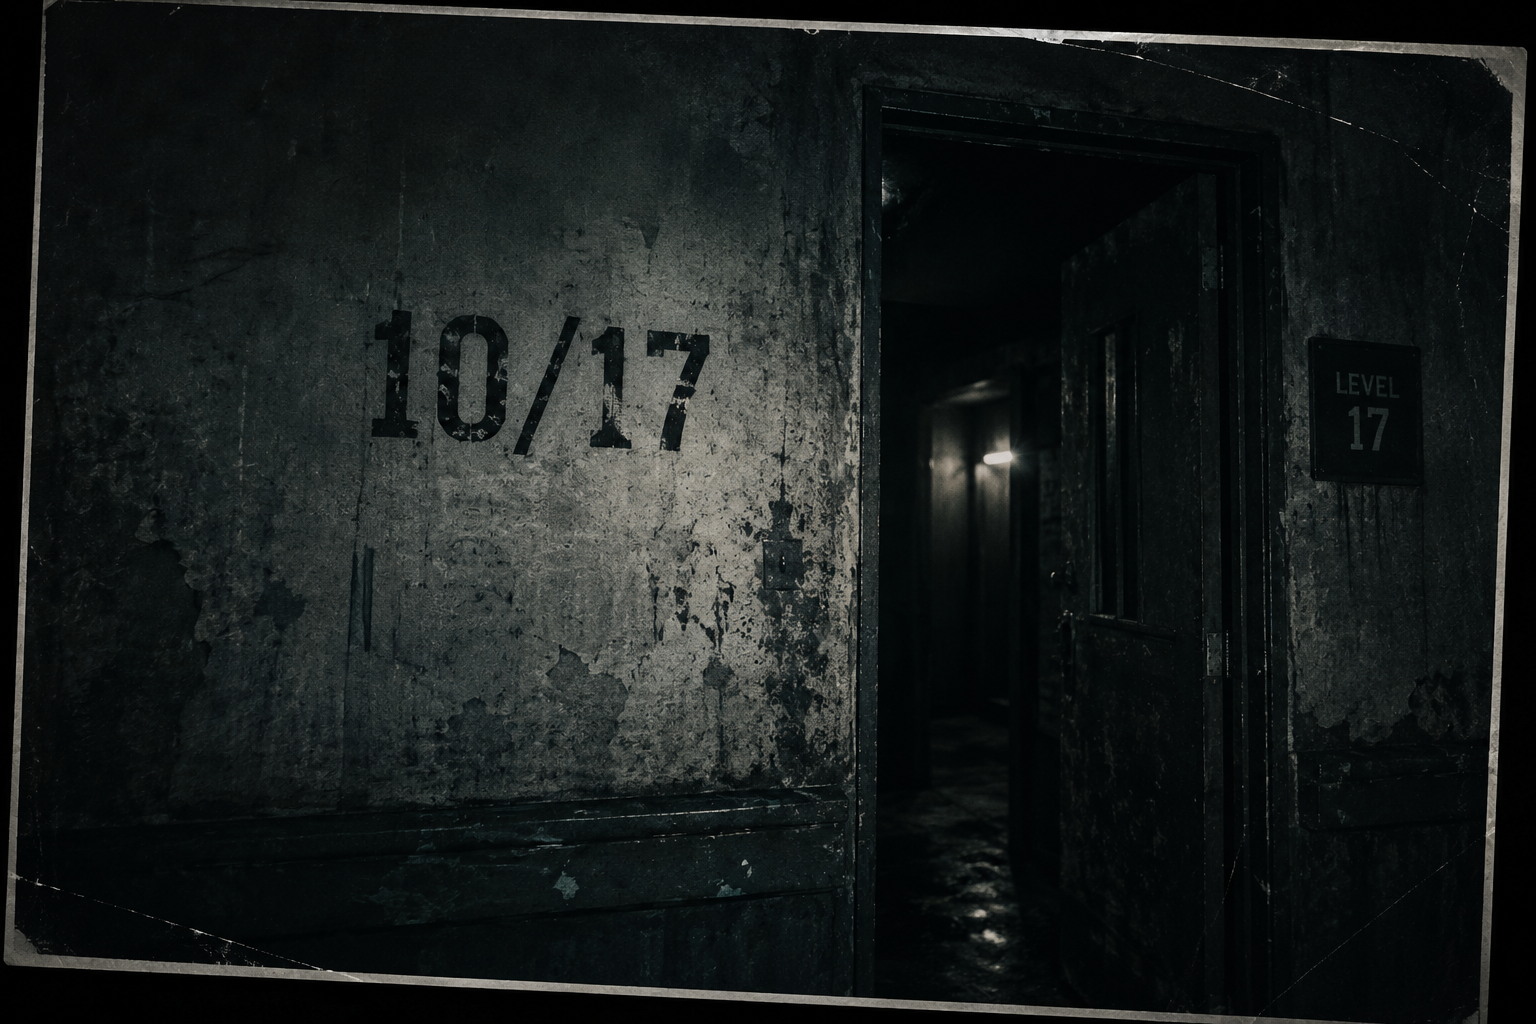
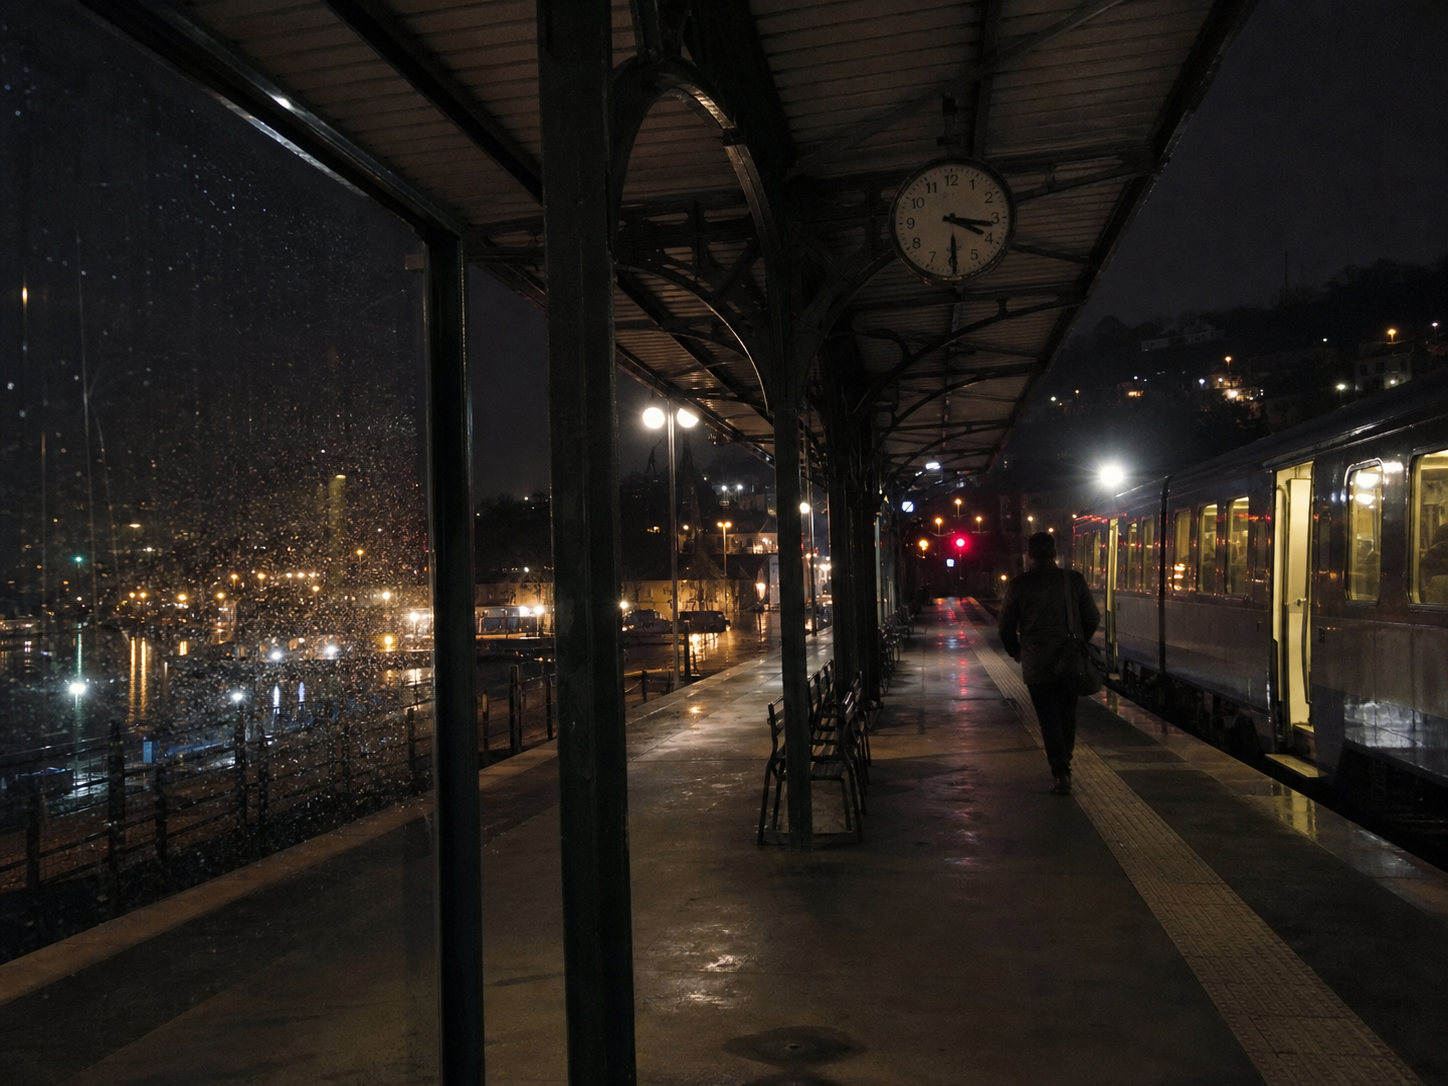
Add files via upload

diff --git a/index.html b/index.html
@@ -1,28 +1,1 @@
-<!doctype html>
-<html lang="zh-CN"><head><meta charset="utf-8"><meta name="viewport" content="width=device-width,initial-scale=1">
-<title>《第17层》</title><link rel="stylesheet" href="assets/style.css"></head>
-<body class="home">
-<header class="sitebar"><div class="wrap bar">
-<a class="logo" href="index.html" style="text-decoration:none">《第17层》</a>
-<nav class="nav"><a href="index.html">首页</a><a href="sites/evan/index.html">林逸网站</a><a href="sites/chronicle/index.html">灰港日报</a><a href="sites/harbor/index.html">Harbor Tower</a><a href="sites/police/index.html">警方档案</a><a href="search.html">公开索引</a></nav>
-</div></header>
-<main>
-<section class="hero"><div class="hero-content">
-<div class="eyebrow">灰港市 · 旧网络档案 · 2019</div><h1>《第17层》</h1>
-<div class="date"><strong class="clue">2019.10.17 · 灰港市</strong></div>
-<p><strong class="clue">17岁的林逸失踪</strong>。警方认为他可能自行离开。多年以后，他的旧个人网站重新出现在网络档案中。</p>
-<div class="actions"><a class="btn primary" href="sites/evan/index.html">进入林逸的网站 →</a><a class="btn" href="search.html">公开索引</a></div>
-</div>
-<aside class="case"><h3>案件摘要</h3>
-<div class="case-row"><span>姓名</span><b>林逸</b></div><div class="case-row"><span>失踪日期</span><b>2019-10-17</b></div><div class="case-row"><span>最后地点</span><b>Harbor Tower 附近</b></div><div class="case-row"><span>状态</span><b style="color:var(--red2)">未解</b></div></aside>
-</section>
-<section class="home-section"><div class="eyebrow">公开资料</div><h2>可以访问的网站</h2>
-<div class="grid">
-<a class="card" href="sites/evan/index.html"><span class="tag">个人网站</span><h3>林逸</h3><p>日志、摄影和旧消息。</p><span class="arrow">访问 →</span></a>
-<a class="card" href="sites/chronicle/index.html"><span class="tag">报纸档案</span><h3>灰港日报</h3><p>建筑翻修与失踪案的公开报道。</p><span class="arrow">进入 →</span></a>
-<a class="card" href="sites/harbor/index.html"><span class="tag">建筑官网</span><h3>Harbor Tower</h3><p>公开的建筑资料和楼层目录。</p><span class="arrow">查看 →</span></a>
-<a class="card" href="sites/voss/index.html"><span class="tag">记者档案</span><h3>Mara Voss</h3><p>一名记者留下的案件记录。</p><span class="arrow">查看 →</span></a>
-<a class="card" href="sites/police/index.html"><span class="tag">警方网站</span><h3>灰港市警察局</h3><p>公开档案检索系统。</p><span class="arrow">进入 →</span></a>
-<a class="card" href="search.html"><span class="tag">公开索引</span><h3>网页索引</h3><p>仍能检索到的一小部分旧页面。</p><span class="arrow">搜索 →</span></a>
-</div></section></main>
-<footer><div class="wrap">本网站为虚构调查游戏 · 《第17层》</div></footer></body></html>
+<!doctype html><html lang="zh-CN"><meta charset="utf-8"><meta name="viewport" content="width=device-width,initial-scale=1"><title>林逸 / Evan Lin</title><link rel="stylesheet" href="style.css"><body><main class="wrap"><nav class="nav"><a class="brand" href="index.html">LIN YI — FIELD NOTES</a><span><a href="snapline.html">SNAPLINE</a>　<a href="tower.html">HARBOR TOWER</a></span></nav><section class="hero"><div class="eyebrow">灰港 / 个人档案 / 2019</div><h1>我拍下那些<br>不肯被记住的地方。</h1><p>林逸，摄影与城市观察。大多数照片只是光线、海风和迟到的列车；有些却像在替我保存证词。</p></section><div class="grid"><article class="card feature"><a href="assets/harbor-tower.png" target="_blank"><img class="photo" src="assets/harbor-tower.png" alt="Harbor Tower 夜景"></a><p class="small">HBR_1012_2108 · 2019.10.12</p><h2>Harbor</h2><p>第一次拍到它的时候，我只觉得这栋楼很漂亮。港口的雾会让每一扇窗都像没有关好。</p></article><article class="card side"><a href="assets/untitled-1017.png" target="_blank"><img class="photo" src="assets/untitled-1017.png" alt="Untitled 1017"></a><p class="small">UNTITLED_1017 · 2019.10.17</p><h2>未命名</h2><p>最后上传。原图仍可打开。</p><p class="note">我把最近的照片也发在 <a href="snapline.html">Snapline</a>。陈诺又在评论区说我消失了。</p></article><article class="card"><h2>10月15日</h2><p>他们说那一层不存在。可我明明看见电梯上的数字。今晚不写了。</p></article><article class="card"><h2>关于 Harbor</h2><p>我总会回到港边。这个词有六码，像一个可以停泊的密码。</p></article><article class="card"><h2>建筑资料</h2><p>Harbor Tower 的翻修新闻被删得很干净。<a href="news.html">灰港日报的旧索引</a>还留着一点。</p></article><div class="footer">© Evan Lin / Photos are presented at original resolution through their image links.</div></main></body></html>

diff --git a/style.css b/style.css
@@ -1,0 +1,2 @@
+@import url('https://fonts.googleapis.com/css2?family=DM+Mono&family=Noto+Serif+SC:wght@400;600;700&family=Space+Grotesk:wght@400;600;700&display=swap');
+:root{--ink:#18242d;--paper:#f3efe7;--red:#c5443c;--blue:#0a293a;--line:#ccd1ce}*{box-sizing:border-box}body{margin:0;background:var(--paper);color:var(--ink);font:16px/1.75 'Noto Serif SC',serif}.wrap{max-width:1080px;margin:auto;padding:32px 24px 80px}a{color:inherit;text-decoration-thickness:1px;text-underline-offset:4px}.nav{display:flex;justify-content:space-between;gap:16px;border-bottom:1px solid var(--ink);padding-bottom:17px;margin-bottom:54px;font:600 13px 'Space Grotesk',sans-serif;letter-spacing:.08em}.nav a{text-decoration:none}.brand{font-size:20px}.hero{max-width:740px;margin:9vh 0}.eyebrow{font:600 12px 'Space Grotesk';letter-spacing:.18em;color:#68727a;text-transform:uppercase}.hero h1{font:700 clamp(46px,10vw,110px)/.93 'Space Grotesk';letter-spacing:-.08em;margin:13px 0 24px}.hero p{font-size:20px;max-width:610px}.grid{display:grid;grid-template-columns:repeat(12,1fr);gap:24px}.card{grid-column:span 4;border-top:2px solid var(--ink);padding:14px 0 32px}.card h2{font:600 26px/1.15 'Space Grotesk';margin:0 0 9px}.card p{color:#4f5a60}.photo{width:100%;display:block;border:1px solid #b8b8b0}.feature{grid-column:span 7}.side{grid-column:span 5}.note{border-left:3px solid var(--red);padding:4px 18px;color:#48545b}.small{font:13px/1.7 'DM Mono',monospace;color:#647078}.mono{font-family:'DM Mono',monospace}.button,button{display:inline-block;padding:12px 17px;background:var(--ink);color:white;border:0;font:600 13px 'Space Grotesk';letter-spacing:.06em;cursor:pointer;text-decoration:none}input{width:100%;padding:14px;border:1px solid #6b757a;background:#fff;font:16px 'DM Mono';margin:7px 0 17px}.site-snap{background:#fafafa;font-family:'Space Grotesk',sans-serif}.site-snap .nav{border-color:#ececec}.site-snap .brand{color:#e23972;font-weight:700}.post{max-width:620px;margin:0 auto 30px;border:1px solid #ddd;background:white;border-radius:14px;overflow:hidden}.post img{width:100%;display:block}.post .copy{padding:16px}.site-tower{background:#07141d;color:#dce9e9;font-family:'Space Grotesk',sans-serif}.site-tower .nav{border-color:#44606a}.site-tower .card{border-color:#8ab2b9}.site-news{background:#ece8df;color:#171717}.mast{font:700 clamp(48px,8vw,94px)/.8 Georgia,serif;text-align:center;border-block:5px double #161616;padding:20px 0;margin-bottom:34px}.article{max-width:740px;margin:auto;font-size:18px}.article h1{font:700 48px/1.05 Georgia,serif}.site-mara{background:#0e0e10;color:#dedbd4;font-family:'Space Grotesk',sans-serif}.site-mara .card{border-color:#a9a39b}.site-police{background:#e7edf0;font-family:Arial,sans-serif}.seal{font-size:50px}.case{display:none;background:#fff;border:1px solid #9dadb4;padding:25px;margin-top:25px}.site-evidence{background:#060809;color:#c8ffce;font-family:'DM Mono',monospace}.terminal{max-width:800px;border:1px solid #35613b;padding:28px;background:#080e09}.hidden{display:none!important}.error{color:#d35d54;min-height:1.8em}.unlock{border:1px dashed #7d8589;padding:21px;margin:28px 0}.footer{margin-top:70px;border-top:1px solid var(--line);padding-top:18px;color:#6a7478;font:12px 'DM Mono'}@media(max-width:700px){.card,.feature,.side{grid-column:span 12}.nav{font-size:11px}.hero h1{font-size:58px}}

diff --git a/archive.html b/archive.html
@@ -1,0 +1,1 @@
+<!doctype html><html lang="zh-CN"><meta charset="utf-8"><meta name="viewport" content="width=device-width,initial-scale=1"><title>林逸私人档案</title><link rel="stylesheet" href="style.css"><script src="app.js"></script><script>requireUnlock()</script><body><main class="wrap"><nav class="nav"><a class="brand" href="index.html">LIN YI — ARCHIVE</a><span>已认证 / elin.archive</span></nav><section class="hero"><div class="eyebrow">未公开记录</div><h1>不要把楼层<br>当成楼层。</h1></section><div class="grid"><article class="card feature"><h2>10月17日 · 23:52</h2><p>我从 S-3 进去。里面不是办公室，是迁走一半的旧数据中心。门禁记录、维修名单、几年前的摄像头备份，全都还在。有人在 2017 年把第 17 层从图上擦掉；但楼梯没有忘记。</p><p>我把副本留在别处。如果我没有回家，别相信他们给出的最后时间。</p></article><article class="card side"><h2>草稿：给 Mara</h2><p>你问的东西不是传闻。去看你那篇被撤下的翻修报道，页脚的工作编号还在。警方需要那个编号才肯承认文件存在。</p><p><a href="mara.html">Mara Voss 的档案</a></p></article><article class="card"><h2>03:17</h2><p>有人以 A.VALE 的名义进入旧系统。那不是一个人名，更像一把被太多人拿过的钥匙。</p></article><article class="card"><h2>照片说明</h2><p>我在 23:41 拍下的不是证据。证据藏在建筑后来否认的结构里。</p><p><a href="tower.html">Harbor Tower</a></p></article></div></main></body></html>

diff --git a/evidence.html b/evidence.html
@@ -1,0 +1,1 @@
+<!doctype html><html lang="zh-CN"><meta charset="utf-8"><meta name="viewport" content="width=device-width,initial-scale=1"><title>数字证据 / 导出</title><link rel="stylesheet" href="style.css"><script src="app.js"></script><script>requireUnlock()</script><body class="site-evidence"><main class="wrap"><div class="terminal"><p>AUTHENTICATED: elin.archive</p><h1>CASE EXPORT / 1017-17</h1><p>[23:52:14] S-3 service access — credential not retained</p><p>[03:17:08] legacy node session initiated — account: A.VALE — origin: Harbor Tower</p><p>[03:21:44] archive synchronization — account: elin.archive — origin: Greyhaven East Terminal</p><p>[03:29:02] image created — <a href="assets/untitled-1017.png" target="_blank">return.jpg</a> — camera signature: EVAN LIN</p><hr><p>恢复的文本片段：</p><p>“如果你看到这个文件，就说明我没有回家。不是因为我被困在楼里；是因为我看见了有人正在用那些旧记录替人消失。A.VALE 不是名字。别找 Adrian，找谁还能用那把钥匙。照片已经告诉你我去了哪里。”</p><p>记录到此停止。东站的摄像头在 03:31 离线，列车在 03:34 离港。没有任何后续可证实的目击。</p><p class="note">结案注记：林逸并未被证明死亡，也未被证明离开。他留出的备份，成为唯一拒绝被改写的证词。</p><p><a href="index.html">← 回到最初的照片</a></p></div></main></body></html>

diff --git a/tower.html b/tower.html
@@ -1,0 +1,1 @@
+<!doctype html><html lang="zh-CN"><meta charset="utf-8"><meta name="viewport" content="width=device-width,initial-scale=1"><title>Harbor Tower</title><link rel="stylesheet" href="style.css"><body class="site-tower"><main class="wrap"><nav class="nav"><a class="brand" href="tower.html">HARBOR TOWER</a><span><a href="index.html">访客信息</a>　租户服务　建筑档案</span></nav><section class="hero"><div class="eyebrow">Greyhaven waterfront</div><h1>让城市抵达海岸。</h1><p>Harbor Tower 是灰港滨水区的 16 层混合用途地标。2017 年现代化改造后重新开放。</p></section><div class="grid"><article class="card feature"><h2>建筑资料 / 2017 前</h2><p>翻修前图纸扫描件的服务流线标注为 <b>S-3</b>。设施说明称其为第三号服务楼梯，连接“机械及服务区域”。该区域未列入现行访客导览。</p><p>旧版高度统计为 17 个结构层；改造后对外统一为 16 层。两种写法均为当时的合规口径。</p></article><article class="card side"><h2>管理声明</h2><p>关于网络流传的“隐藏楼层”说法：建筑没有对公众开放的第 17 层。请勿进入服务通道。</p><p class="small">Northstar Facilities · revision 2019.11</p></article><article class="card"><h2>新闻中心</h2><p>翻修最后阶段曾出现短期封闭。详见 <a href="news.html">灰港日报</a>的历史报道。</p></article></div></main></body></html>

diff --git a/mara.html b/mara.html
@@ -1,0 +1,1 @@
+<!doctype html><html lang="zh-CN"><meta charset="utf-8"><meta name="viewport" content="width=device-width,initial-scale=1"><title>Mara Voss — Reporter</title><link rel="stylesheet" href="style.css"><body class="site-mara"><main class="wrap"><nav class="nav"><a class="brand" href="mara.html">MARA VOSS</a><span>REPORTER / GREYHAVEN</span></nav><section class="hero"><div class="eyebrow">Selected notebooks</div><h1>留下记录，<br>即使没有结论。</h1></section><div class="grid"><article class="card feature"><h2>Harbor / 未刊笔记</h2><p>2019 年，一个名叫林逸的摄影师来找过我。他没有要求发表；他只想知道，为什么 2017 年的楼层统计从 17 变成了 16。</p><p>我后来收到他的一封定时邮件。附件只有一句：<i>“别用名字查，号码才会留下来。”</i></p><p class="mono">GH-MP-2019-1017-17</p><p>我把这个编号抄在这里，并非因为我知道它意味着什么，而是因为它是他最后一次写对的东西。</p></article><article class="card side"><h2>关于 A.VALE</h2><p>设施交接单用的是 A.VALE。Adrian Vale 否认自己在失踪夜值班；“A.VALE”也可能是旧系统的共享权限标签。</p></article><article class="card"><h2>警方公开档案</h2><p>没有编号，查询页只会返回空白。</p><p><a href="police.html">灰港警察局</a></p></article></div></main></body></html>

diff --git a/snapline.html b/snapline.html
@@ -1,0 +1,1 @@
+<!doctype html><html lang="zh-CN"><meta charset="utf-8"><meta name="viewport" content="width=device-width,initial-scale=1"><title>Snapline / evanlin</title><link rel="stylesheet" href="style.css"><body class="site-snap"><main class="wrap"><nav class="nav"><a class="brand" href="snapline.html">snapline</a><span><a href="index.html">林逸的网站</a>　探索　通知</span></nav><div class="post"><div class="copy"><b>evanlin</b>　林逸<br><span class="small">Greyhaven · 摄影 / 建筑<br>生日：2002年10月17日<br><a href="login.html">个人记录（受限）</a></span></div><img src="assets/harbor-tower.png" alt="港边大楼"><div class="copy"><b>evanlin</b>　潮水退得很慢。<br><br><b>chennuo</b> 你那个个人网站我一直进不去，用户名和密码到底是什么？<br><b>evanlin</b> 用户名你知道。密码不说；以前那种 <b>六码英文词 + 生日</b> 的习惯还没改。<br><b>chennuo</b> 你总把港口当成一个人。<br><span class="small">10月12日</span></div></div><div class="post"><div class="copy"><b>linmom</b>　晚饭别忘了。<br><b>evanlin</b> 好。<br><b>yuki.jpg</b> 你的镜头又进雨了吧。<br><span class="small">10月16日</span></div></div><p class="footer">Snapline / archived public profile</p></main></body></html>

diff --git a/police.html b/police.html
@@ -1,0 +1,1 @@
+<!doctype html><html lang="zh-CN"><meta charset="utf-8"><meta name="viewport" content="width=device-width,initial-scale=1"><title>灰港警察局 / 档案</title><link rel="stylesheet" href="style.css"><script src="app.js"></script><body class="site-police"><main class="wrap"><nav class="nav"><span class="brand">GREYHAVEN POLICE</span><a href="index.html">公共门户</a></nav><div class="seal">⚖</div><h1>案件档案查询</h1><p>本系统仅接受完整案件编号。姓名与关键词不用于检索。</p><form onsubmit="event.preventDefault();police(this)"><input placeholder="档案编号" aria-label="档案编号"><button>检索</button><div class="error"></div></form><section class="case"><div class="eyebrow">公开摘录 / 未结案</div><h2>GH-MP-2019-1017-17</h2><p><b>姓名：</b>林逸（Evan Lin）<br><b>状态：</b>失踪<br><b>最后确认：</b>2019.10.17，Harbor Tower 服务区域附近</p><p>现场材料不足以支持死亡或自愿离开之结论。2019 年 10 月 18 日的后续网络活动正在复核。</p><p>数字证据：受限访问。<a class="button" href="evidence-login.html">认证入口</a></p></section></main></body></html>

diff --git a/news.html b/news.html
@@ -1,0 +1,1 @@
+<!doctype html><html lang="zh-CN"><meta charset="utf-8"><meta name="viewport" content="width=device-width,initial-scale=1"><title>灰港日报</title><link rel="stylesheet" href="style.css"><body class="site-news"><main class="wrap"><div class="mast">灰港日报</div><article class="article"><div class="eyebrow">城市 / 2017.06.04</div><h1>Harbor Tower 翻修改造进入最后阶段</h1><p><b>记者：Mara Voss</b></p><p>施工方表示，滨水地标的系统更新将在本月结束。工程涉及消防、电力及非公共服务区域；管理方拒绝说明最高层区域的短期封闭是否与旧设备迁移有关。</p><p>在提交截止前，本报记者获悉，北星设施公司曾将一组老旧服务器转运出楼。公司称其“不含租户数据”。</p><p class="note">编辑注：本文网络版本于 2019 年更新。部分原始附件已不再可用。</p><p>相关报道的采访笔记保存在 <a href="mara.html">Mara Voss 档案</a>。</p></article></main></body></html>

diff --git a/login.html b/login.html
@@ -1,0 +1,1 @@
+<!doctype html><html lang="zh-CN"><meta charset="utf-8"><meta name="viewport" content="width=device-width,initial-scale=1"><title>个人记录</title><link rel="stylesheet" href="style.css"><script src="app.js"></script><body><main class="wrap"><nav class="nav"><a class="brand" href="index.html">LIN YI — PRIVATE</a><span>只供受邀访客</span></nav><section class="hero"><div class="eyebrow">archive / authentication</div><h1>私人记录</h1><p>有些东西不该出现在公开页面。</p></section><form class="unlock" onsubmit="event.preventDefault();login(this,'archive.html')"><label>用户名<input name="u" autocomplete="username"></label><label>密码<input name="p" type="password" autocomplete="current-password"></label><div class="error"></div><button>进入档案</button></form></main></body></html>

diff --git a/app.js b/app.js
@@ -1,0 +1,4 @@
+const CREDS={u:'elin.archive',p:'harbor1017'};
+function login(form,success){const u=form.querySelector('[name=u]').value.trim(),p=form.querySelector('[name=p]').value;if(u===CREDS.u&&p===CREDS.p){sessionStorage.setItem('elin-unlocked','1');location.href=success}else form.querySelector('.error').textContent='认证失败。请核对记录中的拼写与日期。'}
+function police(form){let v=form.querySelector('input').value.trim().toUpperCase();document.querySelector('.case').style.display=v==='GH-MP-2019-1017-17'?'block':'none';form.querySelector('.error').textContent=v&&v!=='GH-MP-2019-1017-17'?'未找到对应编号。':''}
+function requireUnlock(){if(sessionStorage.getItem('elin-unlocked')!=='1') location.replace('login.html')}

diff --git a/evidence-login.html b/evidence-login.html
@@ -1,0 +1,1 @@
+<!doctype html><html lang="zh-CN"><meta charset="utf-8"><meta name="viewport" content="width=device-width,initial-scale=1"><title>GPD / Digital Evidence</title><link rel="stylesheet" href="style.css"><script src="app.js"></script><body class="site-evidence"><main class="wrap"><div class="terminal"><p>GPD DIGITAL EVIDENCE NODE v4.7</p><p>Restricted export / credential required</p><form onsubmit="event.preventDefault();login(this,'evidence.html')"><label>identity<input name="u"></label><label>passphrase<input name="p" type="password"></label><div class="error"></div><button>AUTHENTICATE</button></form></div></main></body></html>
